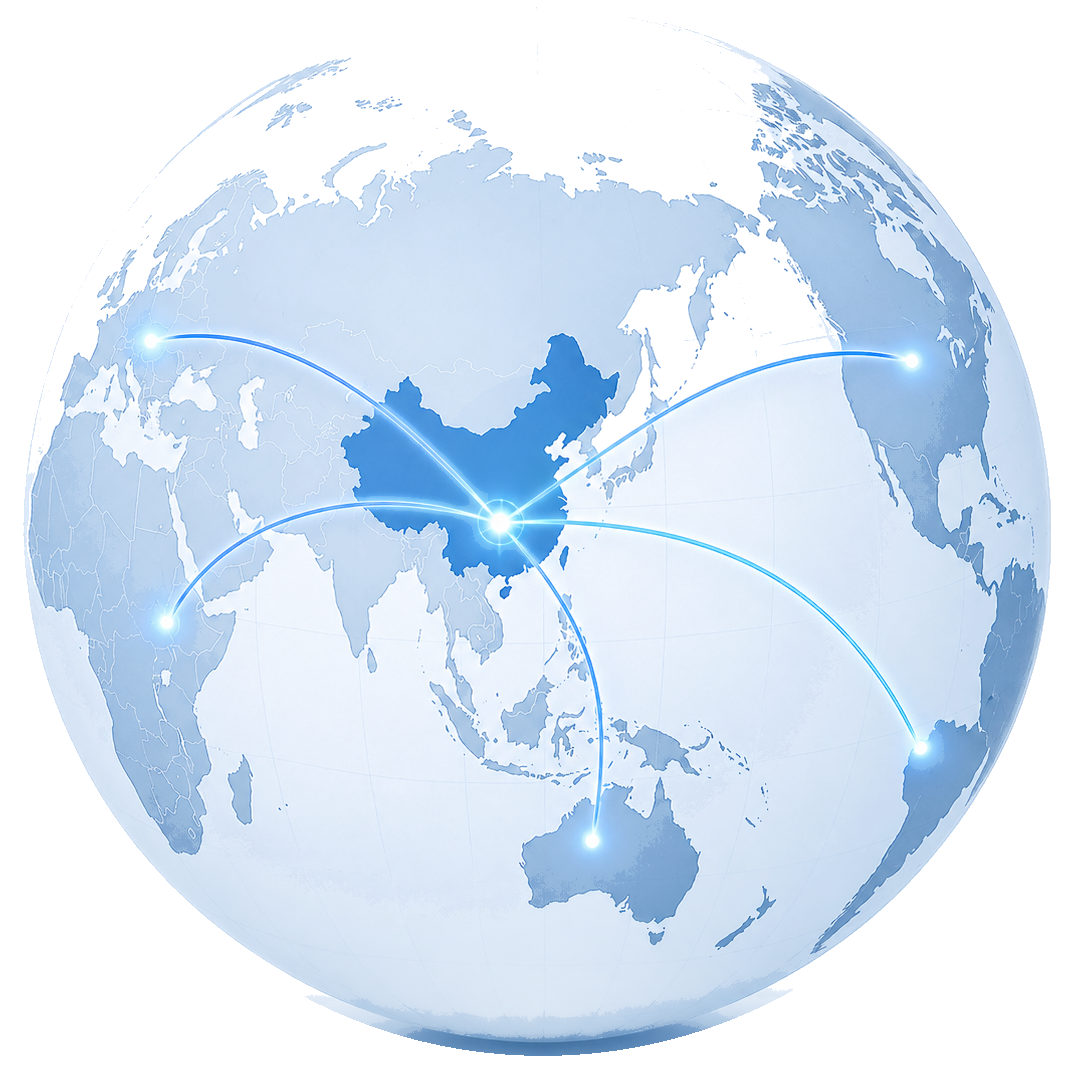
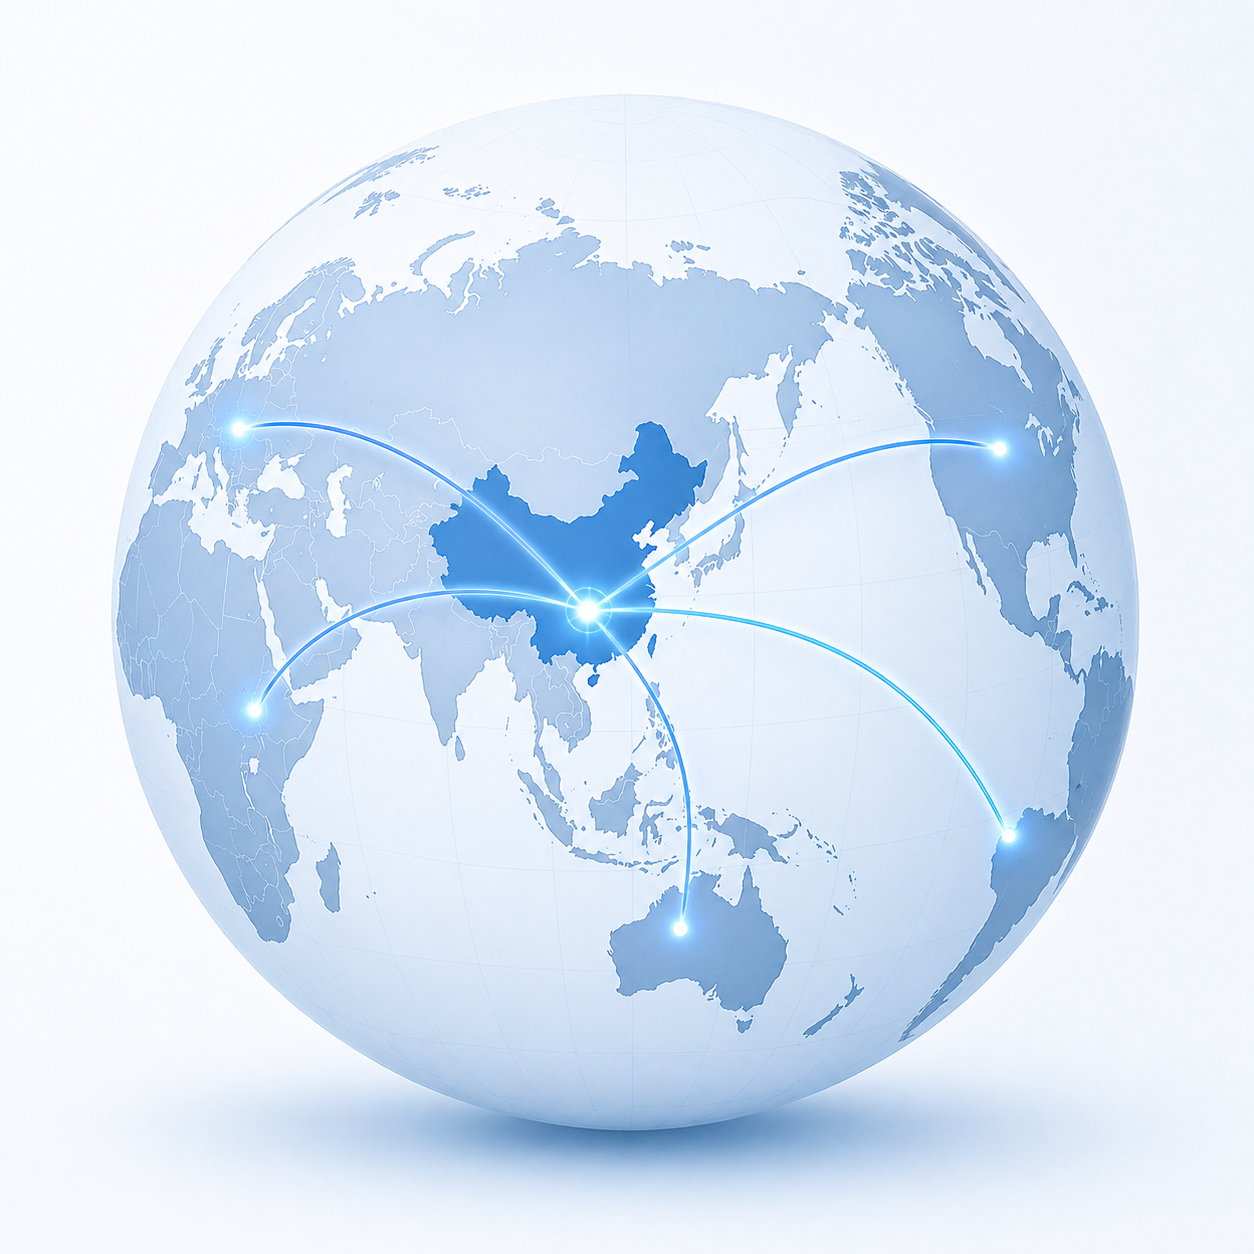
Restore original hero image and rollback hero rendering

diff --git a/index.html b/index.html
@@ -5,7 +5,7 @@
   <meta name="viewport" content="width=device-width,initial-scale=1">
   <title>Phosphate Chemicals Supplier | Technical Grade & Food Grade Phosphates | Theone Chemical</title>
   <meta name="description" content="Theone Chemical supplies phosphate chemicals including STPP, SHMP, TSP, phosphoric acid 85%, DSP and SAPP in technical grade and food grade for industrial, detergent, water treatment and food processing applications.">
-  <meta name="twitter:image" content="https://theonephos.com/assets/img/hero-supply-chain.webp">
+  <meta name="twitter:image" content="https://theonephos.com/assets/img/hero-supply-chain.png">
   <meta name="twitter:description" content="Theone Chemical supplies phosphate chemicals including STPP, SHMP, TSP, phosphoric acid 85%, DSP and SAPP in technical grade and food grade for industrial, detergent, water treatment and food processing applications.">
   <meta name="twitter:title" content="Phosphate Chemicals Supplier | Technical Grade &amp; Food Grade Phosphates | Theone Chemical">
   <meta name="twitter:card" content="summary_large_image">
@@ -16,8 +16,8 @@
   <meta property="og:description" content="Theone Chemical supplies phosphate chemicals including STPP, SHMP, TSP, phosphoric acid 85%, DSP and SAPP in technical grade and food grade for industrial, detergent, water treatment and food processing applications.">
   <meta property="og:type" content="website">
   <meta property="og:url" content="https://theonephos.com/">
-  <meta property="og:image" content="https://theonephos.com/assets/img/hero-supply-chain.webp">
-  <link rel="preload" as="image" href="/assets/img/hero-supply-chain.webp" type="image/webp" fetchpriority="high">
+  <meta property="og:image" content="https://theonephos.com/assets/img/hero-supply-chain.png">
+  <link rel="preload" as="image" href="/assets/img/hero-supply-chain.png" fetchpriority="high">
   <link rel="stylesheet" href="/assets/css/style.css">
 
   <link rel="alternate" href="https://theonephos.com/" hreflang="en">
@@ -121,7 +121,7 @@
           </div>
         </div>
         <div class="hero-visual">
-          <img src="/assets/img/hero-supply-chain.webp" alt="" aria-hidden="true" width="1078" height="1078" decoding="async" loading="eager" fetchpriority="high" onerror="this.onerror=null;this.src='/assets/img/hero-supply-chain.png';">
+          <img src="/assets/img/hero-supply-chain.png" alt="" aria-hidden="true" width="1280" height="1280" decoding="async" fetchpriority="high">
         </div>
       </div>
     </section>
